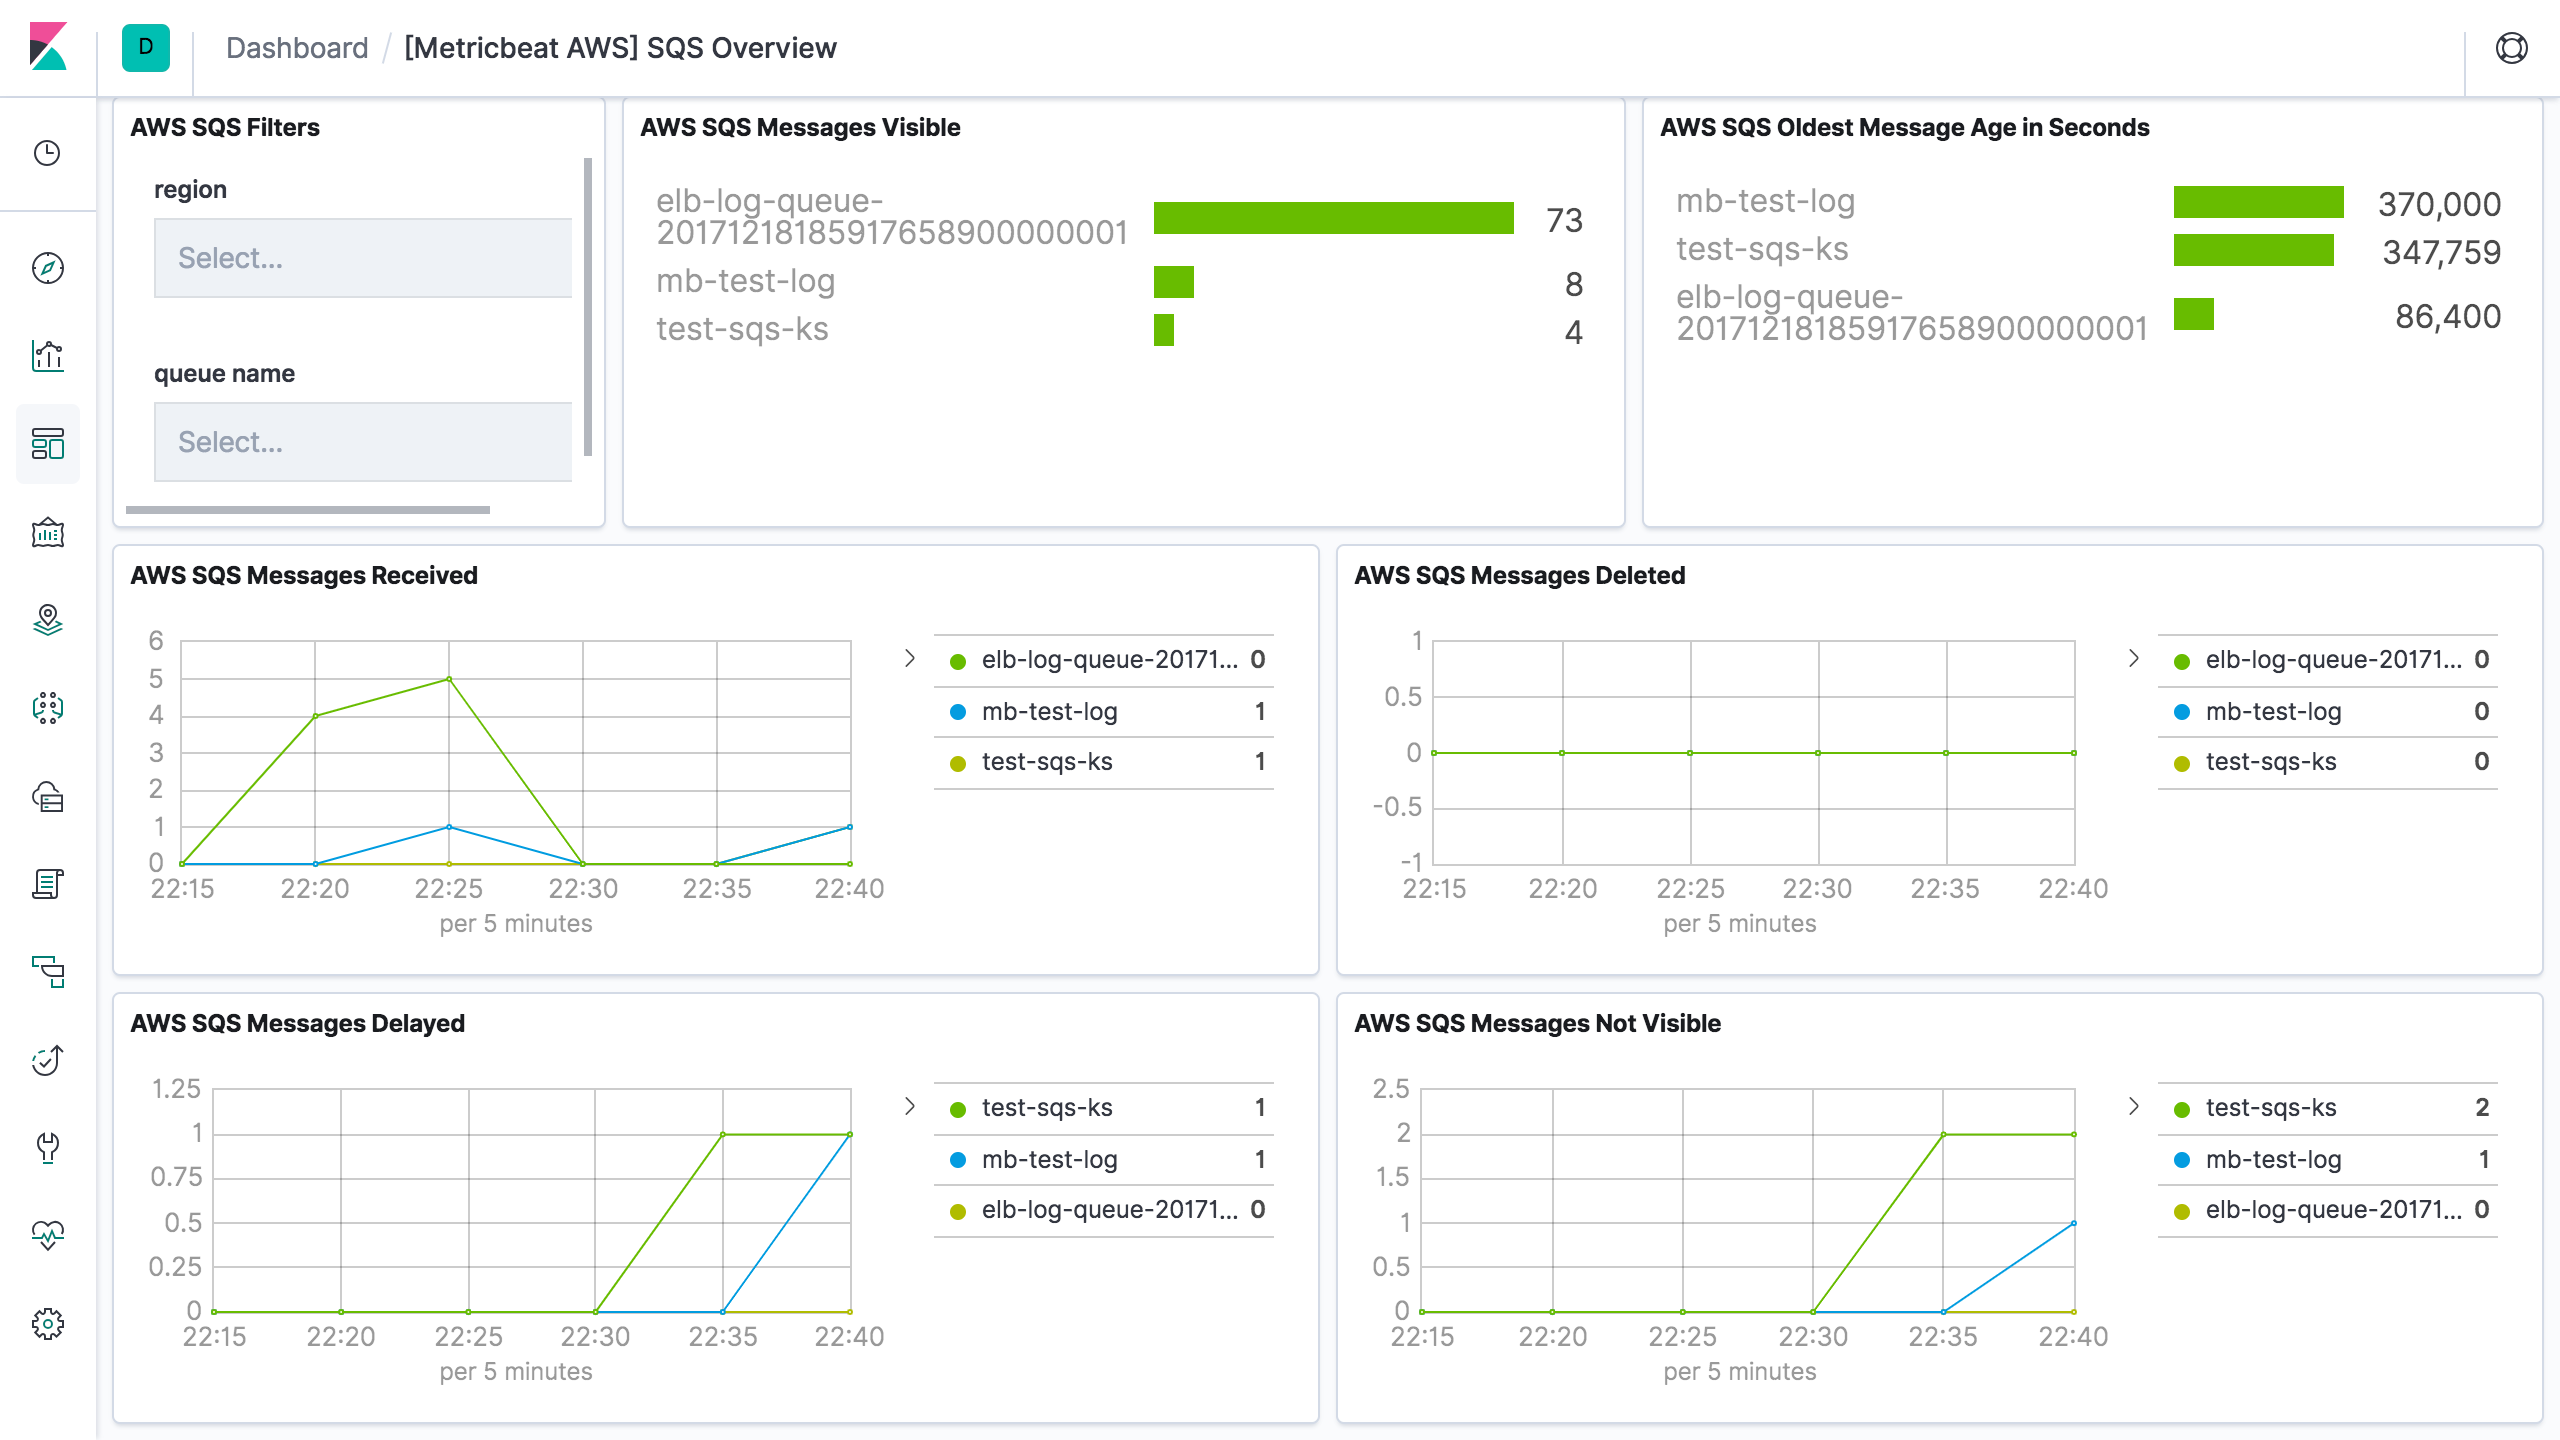
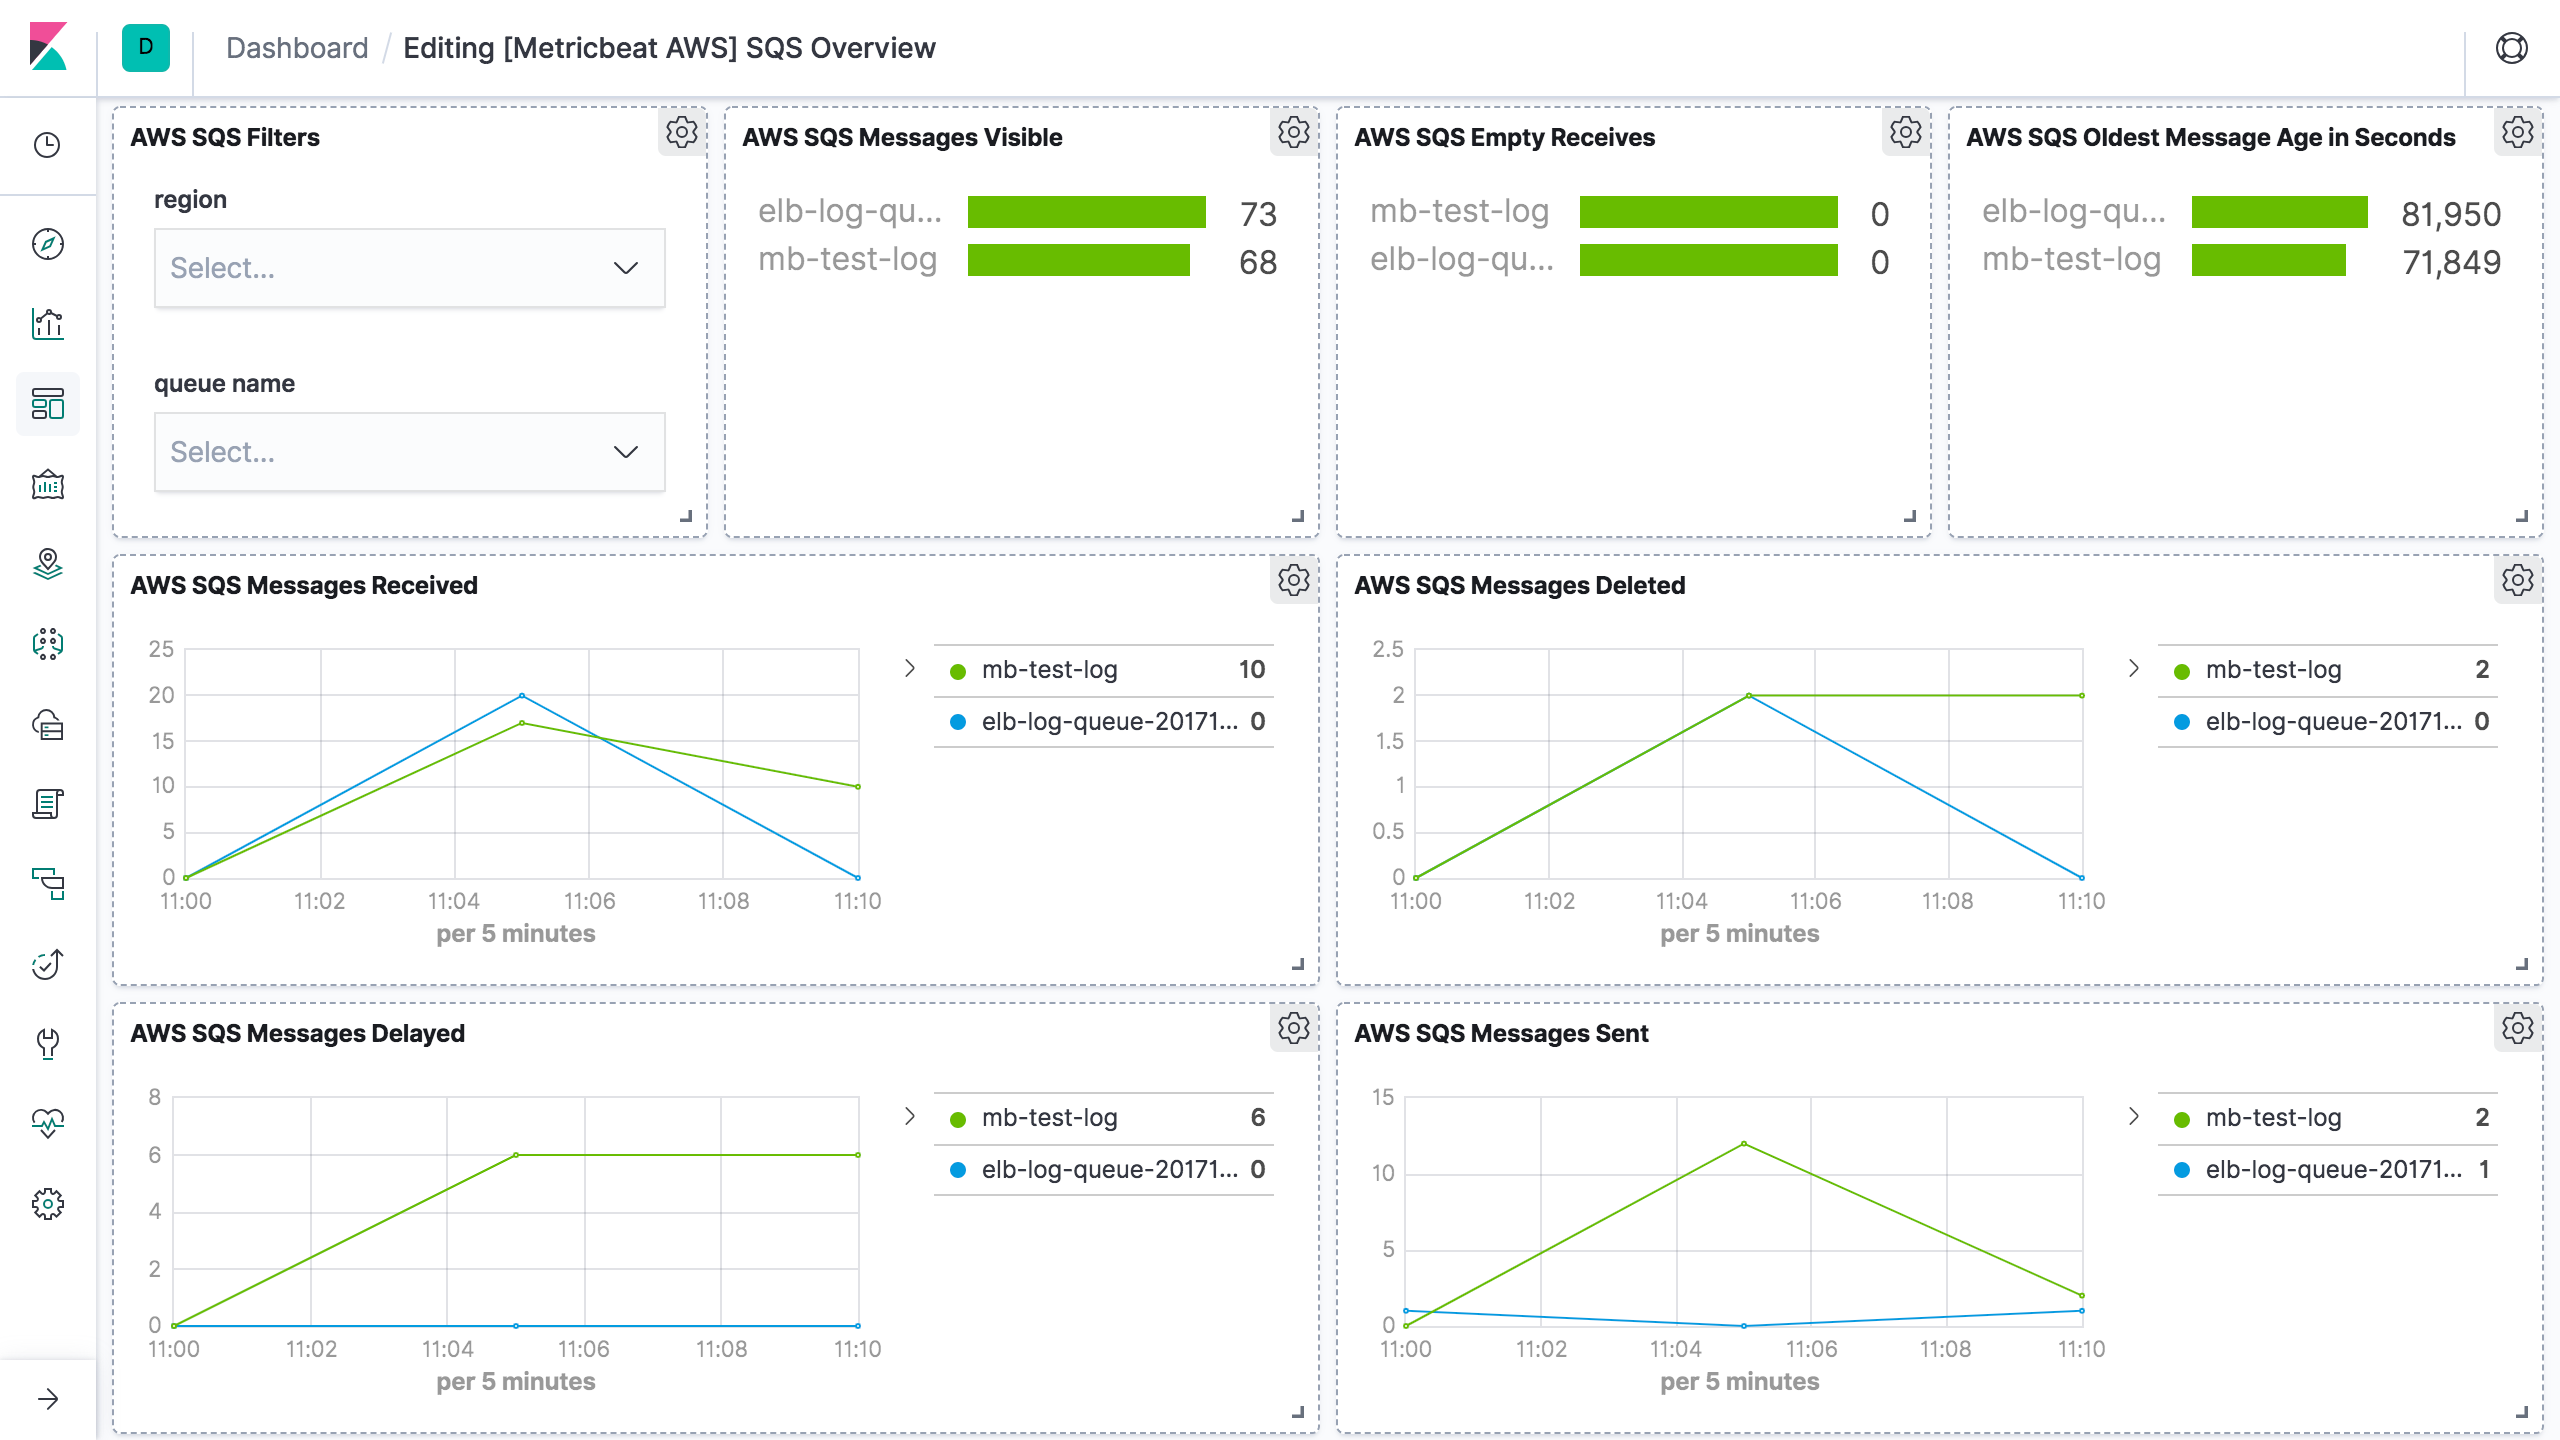
Fix sqs dashboard and add s3 dashboard image to doc (#12015)
* Fix sqs dashboard and add s3 dashboard image to doc

* export dashboard with --decode flag

* Change index pattern from metricbeat* to metricbeat-*

diff --git a/x-pack/metricbeat/module/aws/sqs/sqs.go b/x-pack/metricbeat/module/aws/sqs/sqs.go
@@ -149,7 +149,7 @@ func constructMetricQueries(listMetricsOutput []cloudwatch.Metric, period time.D
 }
 
 func createMetricDataQuery(metric cloudwatch.Metric, index int, period time.Duration) (metricDataQuery cloudwatch.MetricDataQuery) {
-	statistic := "Average"
+	statistic := "Sum"
 	periodInSec := int64(period.Seconds())
 	id := "sqs" + strconv.Itoa(index)
 	metricDims := metric.Dimensions
